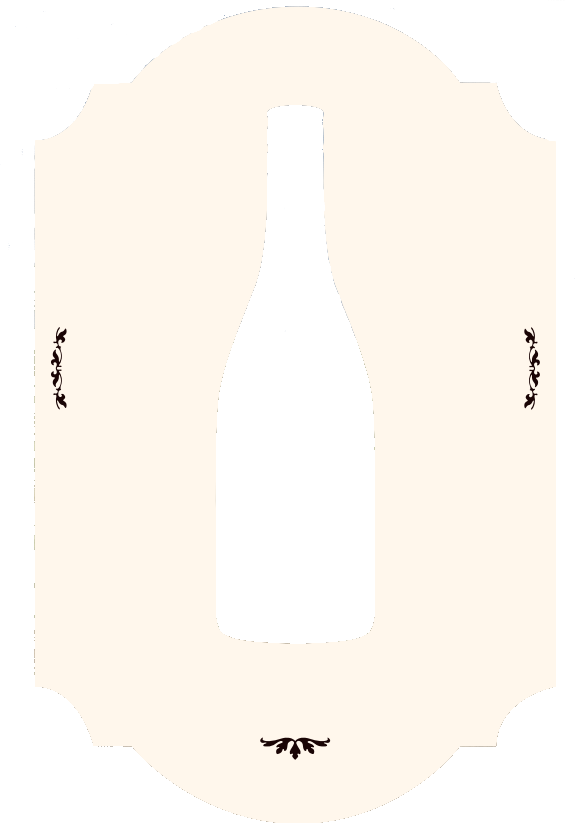
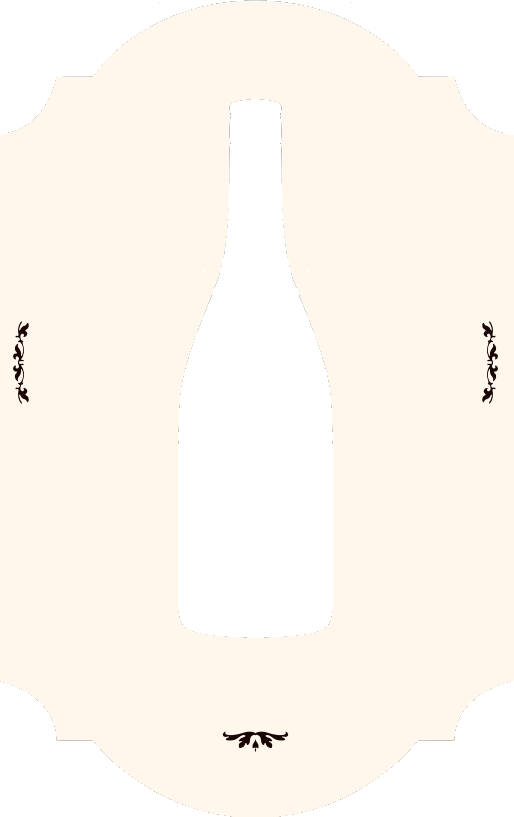
Kontakt CTA gumb u mobilni hero; nova slika okvira ponude (prilagoden omjer i pozicija teksta)

diff --git a/css/style.css b/css/style.css
@@ -79,7 +79,7 @@ a{color:inherit}
   display:flex;align-items:center;overflow:clip}
 .ponuda-inner{width:100%;max-width:1600px;margin:0 auto;display:grid;grid-template-columns:1fr 2fr 1fr;
   gap:1.5rem;align-items:center}
-.arch{position:relative;z-index:4;width:min(100%,calc((100svh - 5.5rem)/1.35));margin:0 auto;container-type:inline-size}
+.arch{position:relative;z-index:4;width:min(100%,calc((100svh - 5.5rem)/1.48));margin:0 auto;container-type:inline-size}
 /* slika_ponuda_vina — placeholder: za povratak slike iza okvira dodaj ovdje
    background:url('../assets/img/ponuda-grozdje.jpg') center/cover; */
 .arch-photo{position:absolute;inset:0;border-radius:2px}
@@ -88,7 +88,7 @@ a{color:inherit}
 .arch-text-top{position:absolute;top:9%;top:12.5cqw;left:0;right:0;text-align:center;z-index:3;color:var(--ink)}
 .arch-title{font-family:var(--serif);font-weight:500;font-size:clamp(1.7rem,3vw,2.4rem);font-size:6.2cqw;line-height:1.15}
 .arch-sub{letter-spacing:.16em;text-indent:.16em;font-size:.85rem;font-size:2.1cqw;margin-top:.8cqw;line-height:1.2}
-.arch-text-bottom{position:absolute;top:76.5%;top:103cqw;left:0;right:0;text-align:center;z-index:3;color:var(--ink);
+.arch-text-bottom{position:absolute;top:76.5%;top:113cqw;left:0;right:0;text-align:center;z-index:3;color:var(--ink);
   font-size:clamp(.8rem,1.4vw,.98rem);font-size:2.8cqw;line-height:1.6;white-space:nowrap}
 
 /* wines */